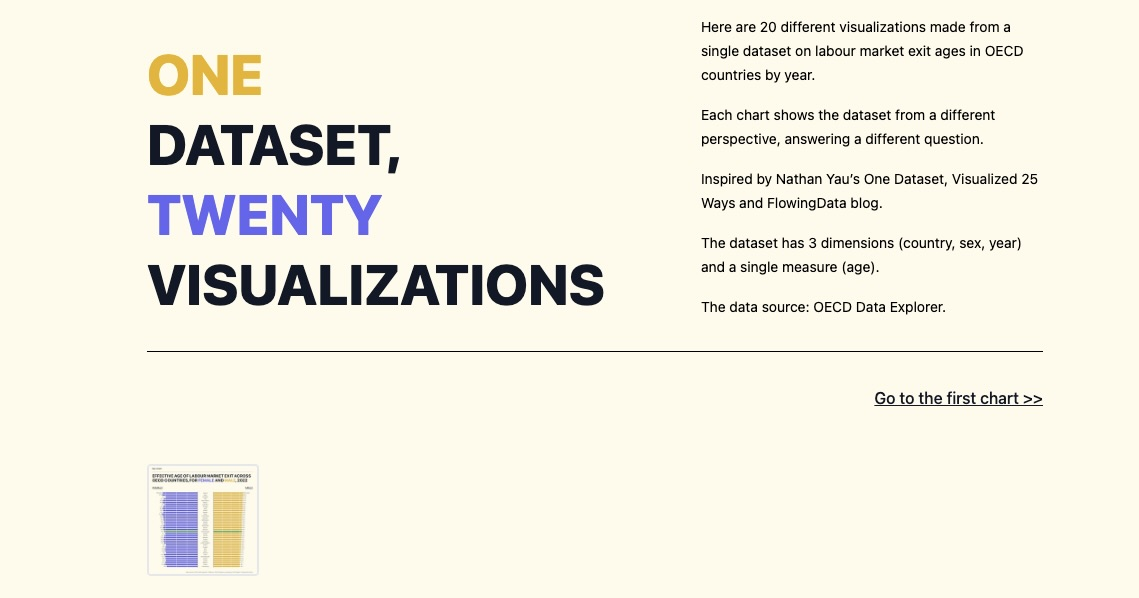
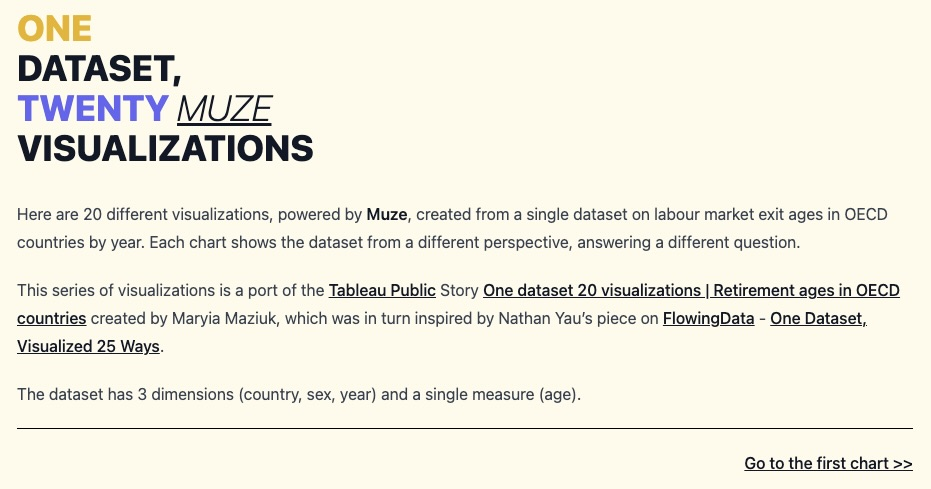
Optimize for mobiles

diff --git a/src/routes/+page.svelte b/src/routes/+page.svelte
@@ -1,62 +1,87 @@
-<main class="prose m-auto max-w-4xl">
-	<article>
-		<div class="flex items-end gap-24">
-			<header class="prose prose-xl prose-headings:leading-tight">
-				<h1>
-					<span class="text-yellow-500">ONE</span>
-					<br />
-					DATASET,
-					<br />
-					<span class="text-indigo-500">TWENTY</span>
-					<br />
-					VISUALIZATIONS
-				</h1>
-			</header>
-			<section class="prose prose-sm prose-p:text-black">
-				<p>
-					Here are 20 different visualizations made from a single dataset on labour market exit ages
-					in OECD countries by year.
-				</p>
-				<p>
-					Each chart shows the dataset from a different perspective, answering a different question.
-				</p>
-				<p>Inspired by Nathan Yau’s One Dataset, Visualized 25 Ways and FlowingData blog.</p>
-				<p>The dataset has 3 dimensions (country, sex, year) and a single measure (age).</p>
-				<p>The data source: OECD Data Explorer.</p>
-			</section>
-		</div>
-	</article>
-	<span class="prose prose-hr:my-8 prose-hr:border-black">
+<script lang="ts">
+	const pageInfos = Array(20).fill({
+		name: 'bar',
+		alt: 'Bar Chart'
+	});
+</script>
+
+<main class="min-h-screen p-4">
+	<section class="prose m-auto max-w-4xl prose-hr:my-4 prose-hr:border-black">
+		<article>
+			<div>
+				<header>
+					<h1>
+						<span class="text-yellow-500">ONE</span>
+						<br />
+						DATASET,
+						<br />
+						<span class="text-indigo-500">TWENTY</span>
+						<span class="font-extralight underline"><em>MUZE</em></span>
+						<br />
+						VISUALIZATIONS
+					</h1>
+				</header>
+				<section>
+					<p>
+						Here are 20 different visualizations, powered by <strong>Muze</strong>, created from a
+						single dataset on labour market exit ages in OECD countries by year. Each chart shows
+						the dataset from a different perspective, answering a different question.
+					</p>
+					<p>
+						This series of visualizations is a port of the
+						<a href="https://public.tableau.com/">Tableau Public</a>
+						Story
+						<a
+							href="https://public.tableau.com/app/profile/maryia.maziuk/viz/Onedataset20visualizationsRetirementAgesinOECDCountries/Onedataset20visualizations"
+						>
+							One dataset 20 visualizations | Retirement ages in OECD countries
+						</a>
+						created by Maryia Maziuk, which was in turn inspired by Nathan Yau’s piece on
+						<a href="https://flowingdata.com/">FlowingData</a>
+						-
+						<a href="https://flowingdata.com/2017/01/24/one-dataset-visualized-25-ways/">
+							One Dataset, Visualized 25 Ways
+						</a>.
+					</p>
+					<p>The dataset has 3 dimensions (country, sex, year) and a single measure (age).</p>
+				</section>
+			</div>
+		</article>
 		<hr />
-	</span>
-	<nav class="prose max-w-4xl prose-p:text-end">
-		<p><a href="/bar">Go to the first chart &gt;&gt;</a></p>
-		<div class="flex">
-			<a href="/bar">
-				<img
-					class="size-28 rounded border-2 border-gray-200 hover:opacity-80 hover:brightness-105"
-					src="/images/bar.jpeg"
-					alt="Bar Chart"
-				/>
-			</a>
-		</div>
-	</nav>
-	<span class="prose max-w-4xl prose-hr:my-4 prose-hr:border-black">
+		<nav>
+			<aside>
+				<p class="text-right"><a href="/bar">Go to the first chart &gt;&gt;</a></p>
+			</aside>
+			<div class="not-prose flex flex-wrap gap-4">
+				{#each pageInfos as { name, alt }}
+					<a class="inline-block size-28" href={`/${name}`}>
+						<img
+							{alt}
+							class="size-28 rounded border-2 border-gray-200 hover:opacity-80 hover:brightness-105"
+							src={`/images/${name}.jpeg`}
+						/>
+					</a>
+				{/each}
+			</div>
+		</nav>
 		<hr />
-	</span>
-	<footer class="flex gap-52">
-		<div
-			class="prose-sm max-w-none prose-h2:mb-0 prose-h2:text-sm prose-h2:font-black prose-p:text-black"
-		>
+	</section>
+	<footer
+		class="prose prose-sm m-auto max-w-4xl prose-h2:m-0 prose-h2:text-sm prose-p:m-0 md:flex md:items-center md:gap-48"
+	>
+		<div>
 			<h2>EFFECTIVE AGE OF LABOUR MARKET EXIT</h2>
 			<p>
 				The average effective age of retirement is defined as the average age of exit from the
 				labour force for workers initially aged 40 and over.
 			</p>
 		</div>
-		<div class="prose-sm prose-p:m-0 prose-p:whitespace-nowrap prose-p:text-black">
-			<p>Source: OECD Data Explorer</p>
-			<p>Powered by: Muze</p>
+		<div class="h-min text-end md:text-start">
+			<p class="text-nowrap">
+				Source: OECD Data Explorer
+				<br />
+				Powered by: Muze
+			</p>
 		</div>
 	</footer>
 </main>

diff --git a/src/lib/bar.svelte b/src/lib/bar.svelte
@@ -197,7 +197,7 @@
 </script>
 
 <article
-	class="prose mx-auto flex h-full w-full max-w-4xl flex-col prose-h2:m-0 prose-h2:mb-4 prose-hr:mb-4 prose-hr:border-black"
+	class="prose mx-auto flex h-screen w-screen max-w-4xl flex-col p-4 prose-h2:m-0 prose-h2:mb-4 prose-hr:mb-4 prose-hr:border-black"
 >
 	<header>
 		<h3>Bar chart</h3>
@@ -214,8 +214,8 @@
 		</div>
 	</header>
 	<main class="flex w-full grow">
-		<div class="not-prose grow" bind:this={femaleViz}></div>
-		<div class="male not-prose grow" bind:this={maleViz}></div>
+		<div class="not-prose grow-[427] md:grow-[467]" bind:this={femaleViz}></div>
+		<div class="male not-prose grow-[573] md:grow-[533]" bind:this={maleViz}></div>
 	</main>
 	<footer>
 		<p class="text-right text-xs">
@@ -234,6 +234,11 @@
 	div.male :global(div.muze-axis-cell-left g.muze-discrete-axis g.muze-ticks text) {
 		fill: #000000 !important;
 		font-weight: 400 !important;
+	}
+
+	div.male :global(div.muze-axis-cell-left g.muze-discrete-axis g.muze-ticks:nth-child(20) text) {
+		fill: #16a34a !important;
+		font-weight: 600 !important;
 	}
 
 	div :global(td.muze-grid-td) {

diff --git a/src/routes/+layout.svelte b/src/routes/+layout.svelte
@@ -21,6 +21,7 @@
 		content="Discover the versatility of Muze with 20 different visualizations answering questions about labour market exits in OECD countries."
 	/>
 </svelte:head>
-<div class="h-screen w-screen bg-amber-50 p-4">
+
+<div class="bg-amber-50">
 	<slot></slot>
 </div>
